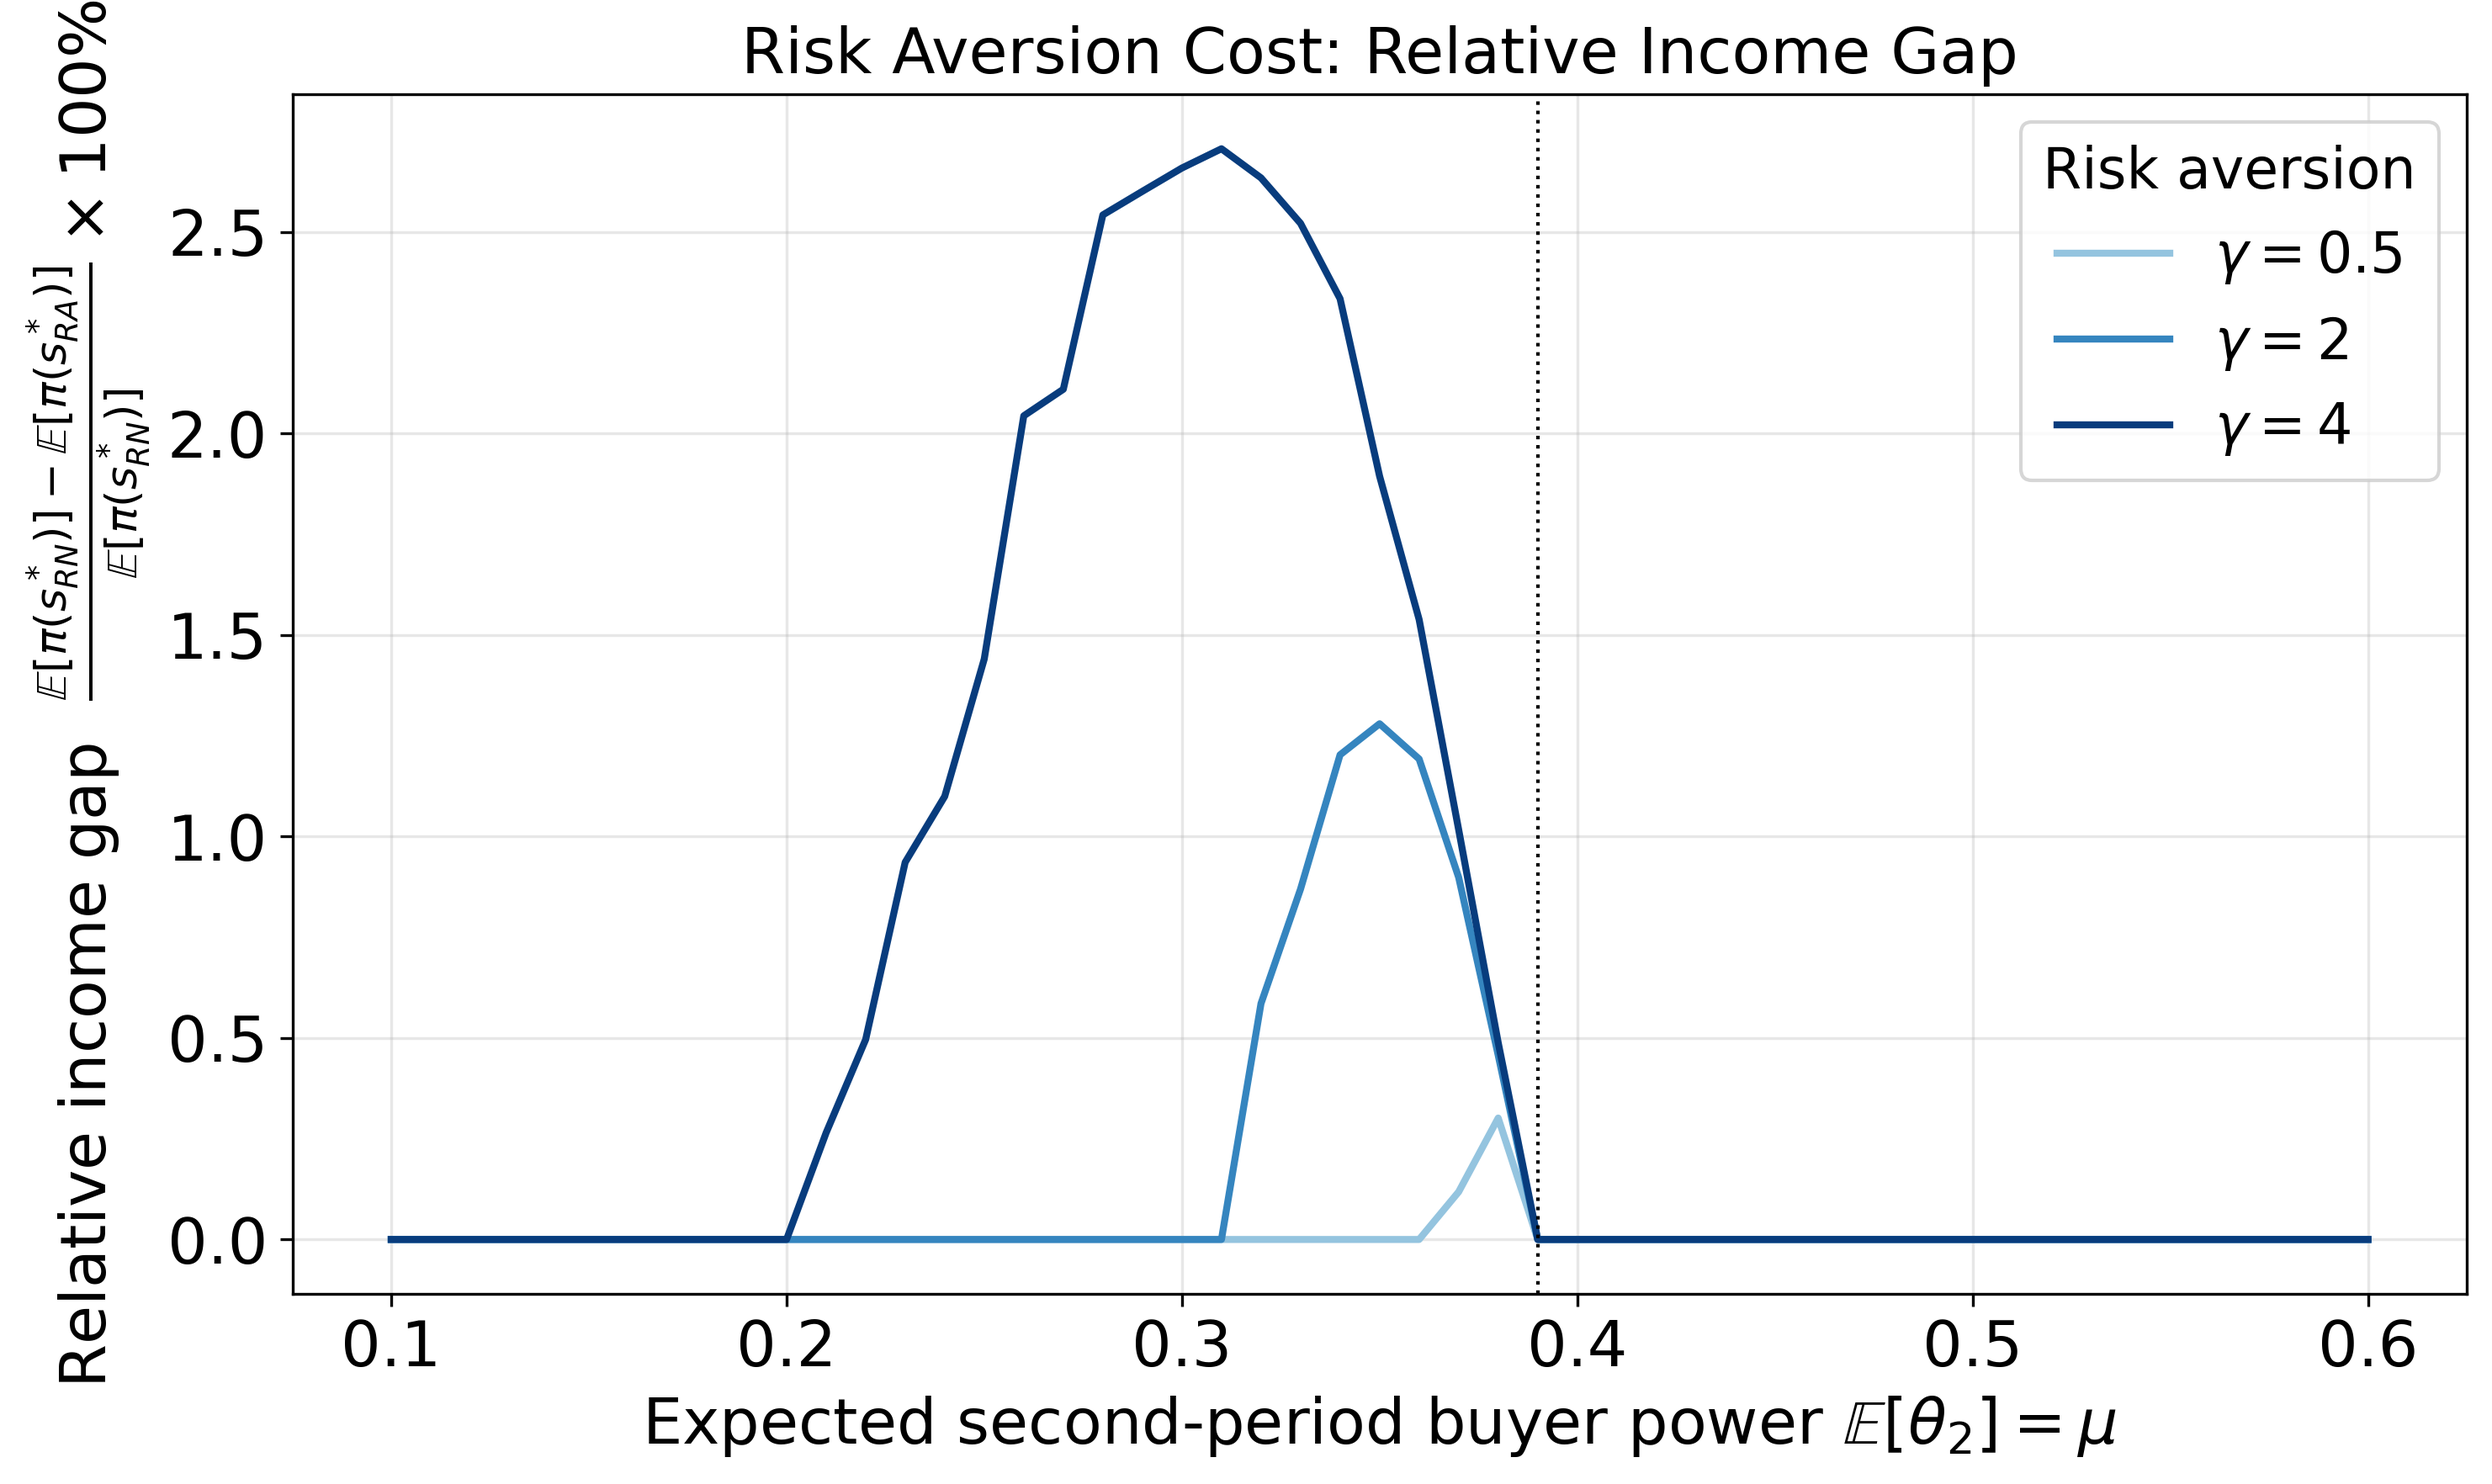
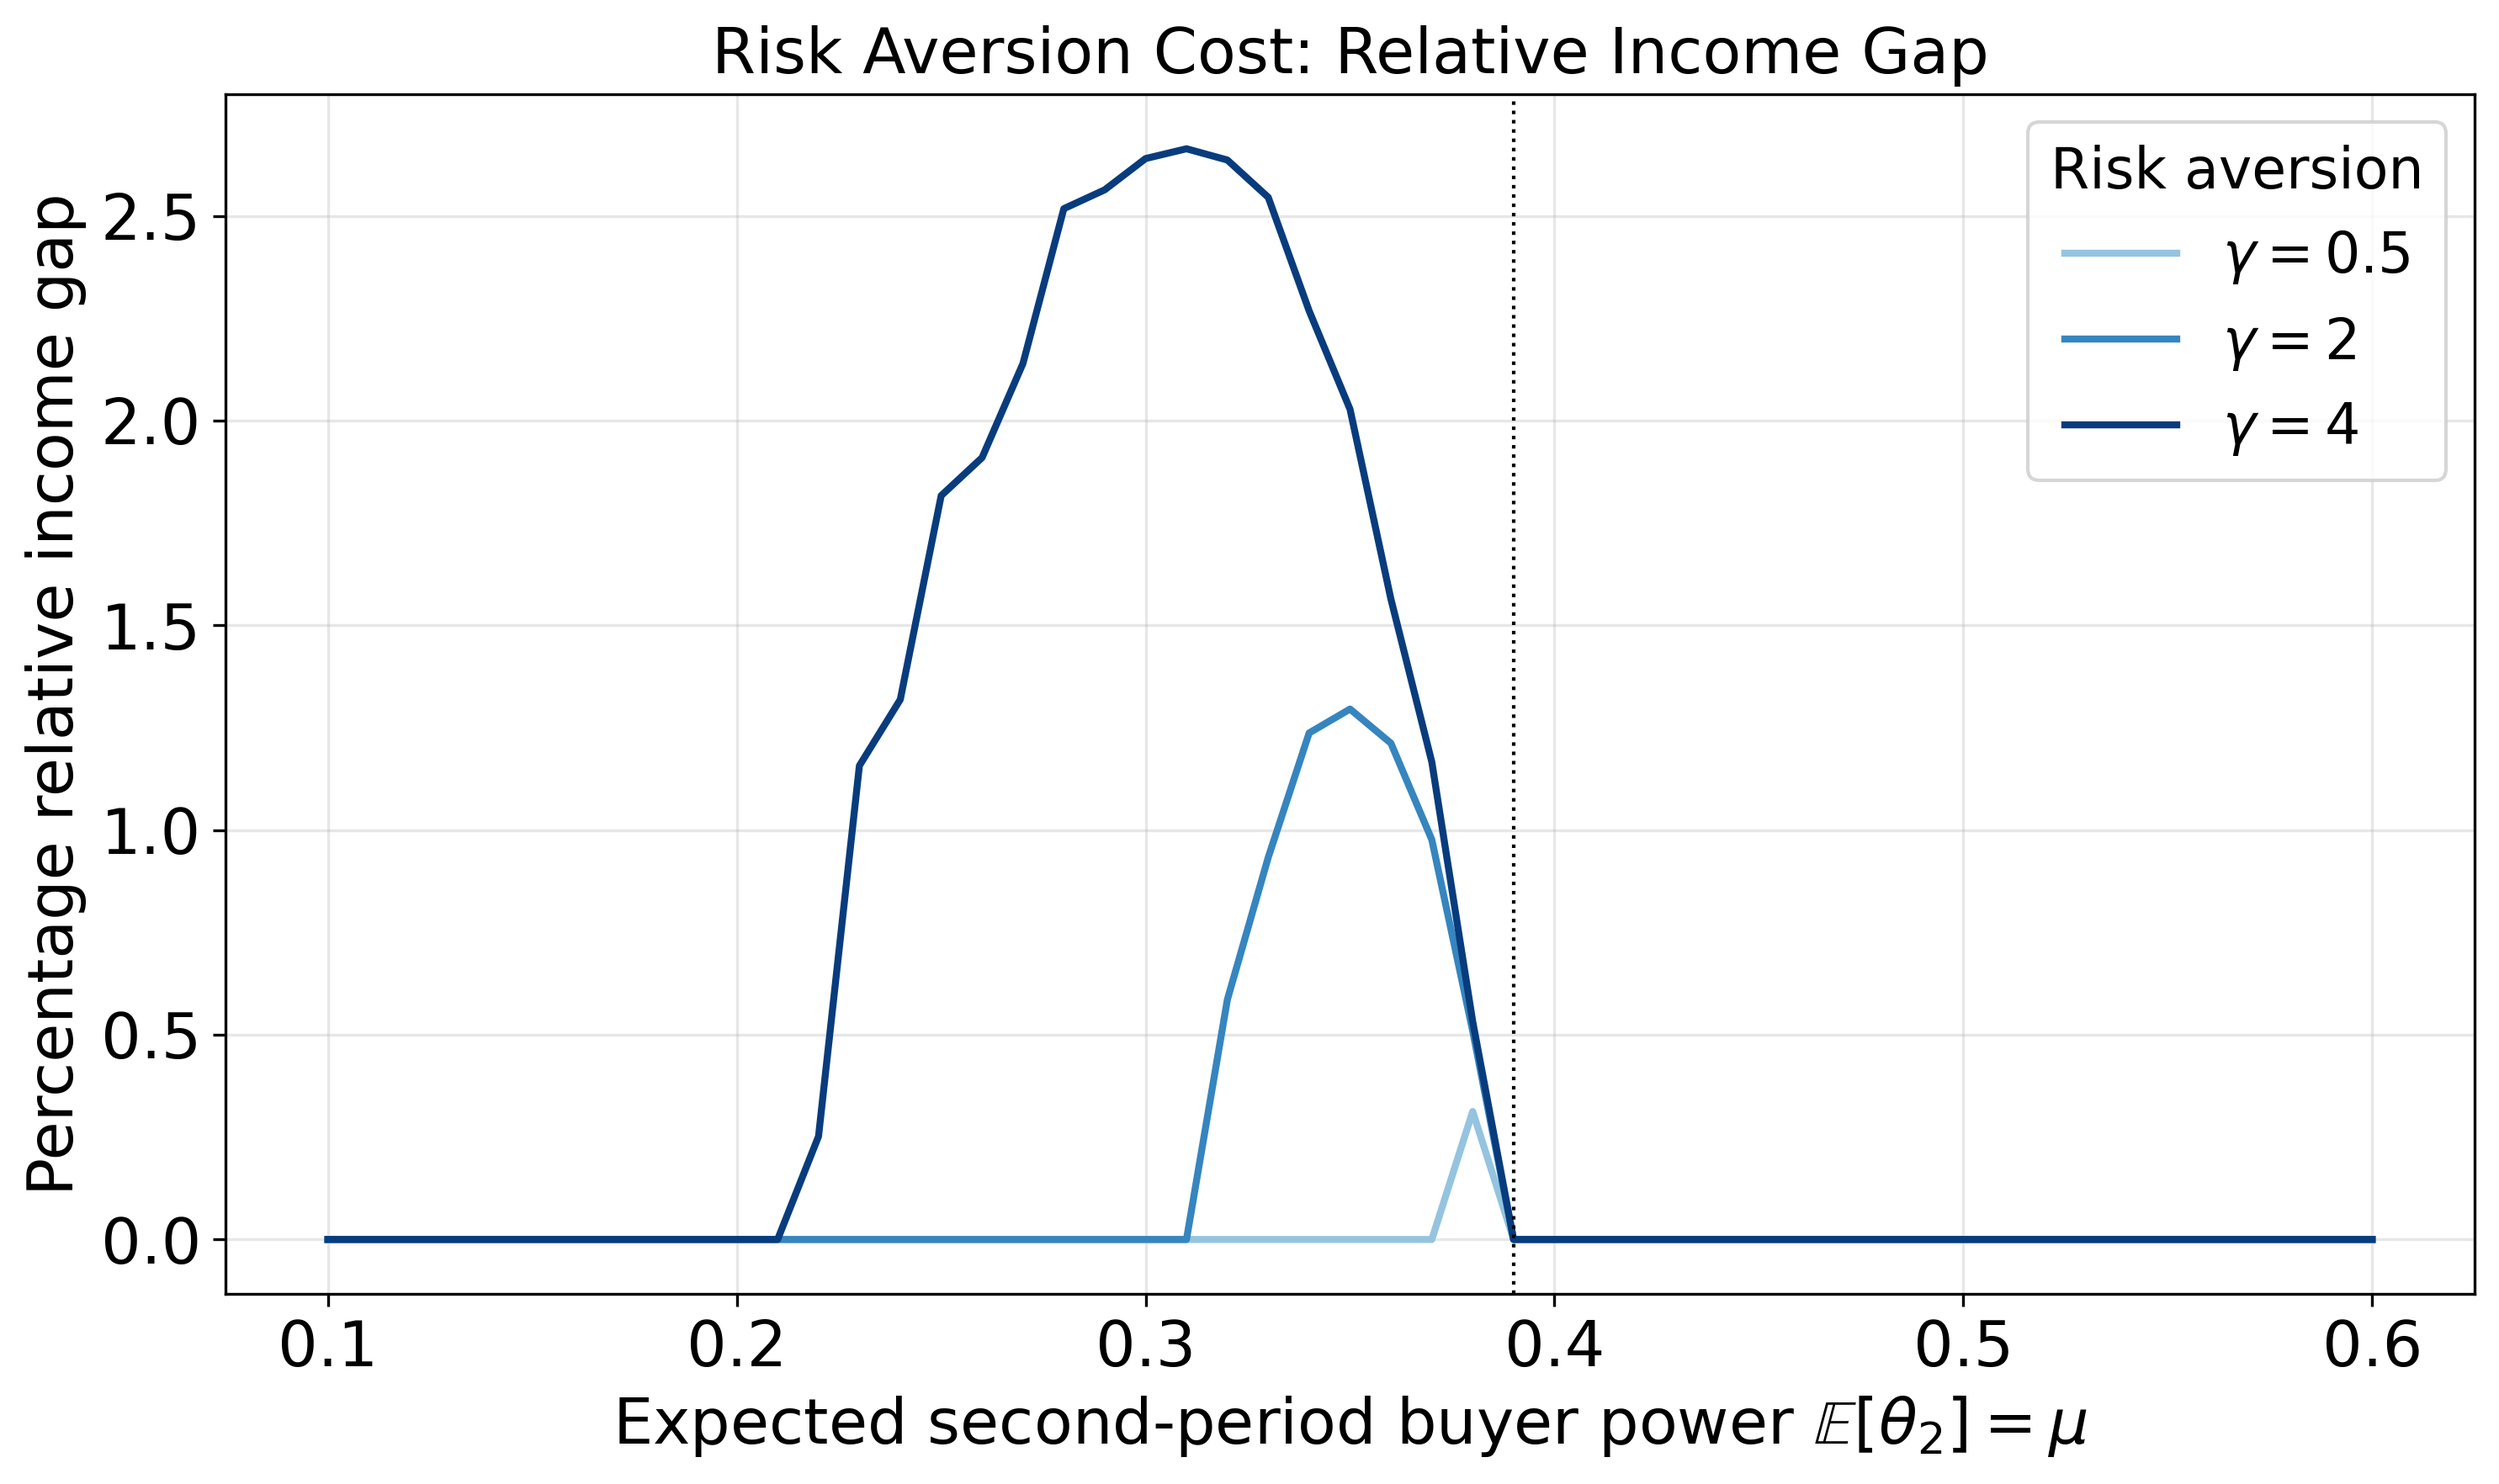
update

diff --git a/code/python_theoritical_model/village_4profile_RISK_AVERSION_income_gain.py b/code/python_theoritical_model/village_4profile_RISK_AVERSION_income_gain.py
@@ -63,7 +63,7 @@ target_dir      = os.path.join(grandparent_dir, "model_figures")
 os.makedirs(target_dir, exist_ok=True)
 
 DPI      = 300
-FIG_PATH = os.path.join(target_dir, "village_4profile_income_gain.png")
+FIG_PATH = os.path.join(target_dir, "village_4profile_income.png")
 
 # ----------------------------- Quadrature (shared across all integrals)
 nodes, weights = leggauss(20)
@@ -287,7 +287,7 @@ for v_idx, (title, color, pdf_fn, mean_v) in enumerate(dist_info):
         if v_idx == 1:   # Uniform: flat PDF, move label lower
             lbl_x, lbl_y = mean_v + 0.13, y.max() * 0.45
         elif v_idx == 3: # Left-skewed Beta: peak is on right, place label to the left
-            lbl_x, lbl_y = mean_v - 1.10, y.max() * 0.88
+            lbl_x, lbl_y = mean_v - 2.00, y.max() * 0.88
         else:            # Right-skewed Beta: default right placement
             lbl_x, lbl_y = mean_v + 0.13, y.max() * 0.88
         ax.text(lbl_x, lbl_y, f"$\\bar{{\\gamma}}={mean_v}$",
@@ -350,9 +350,7 @@ for r_idx, kappa in enumerate(kappa_rows):
 fig.suptitle(
     "Village-Average Income Gain from Optimal Storage"
     r"  ($\mu_{\theta_1} = \mu_{\theta_2}$)" + "\n"
-    r"Four village risk-aversion profiles  $|$  "
-    r"Rows: storage efficiency $\kappa$  $|$  "
-    r"Cols: buyer-power variance $\sigma^2_\theta$",
+    r"Four village risk-aversion profiles",
     fontsize=FS_SUPTITLE,
     y=1.01
 )

diff --git a/code/python_theoritical_model/village_4profile_RISK_AVERSION_GE_gain.py b/code/python_theoritical_model/village_4profile_RISK_AVERSION_GE_gain.py
@@ -63,7 +63,7 @@ target_dir      = os.path.join(grandparent_dir, "model_figures")
 os.makedirs(target_dir, exist_ok=True)
 
 DPI      = 300
-FIG_PATH = os.path.join(target_dir, "village_4profile_individual.png")
+FIG_PATH = os.path.join(target_dir, "village_4profile_CE.png")
 
 # ----------------------------- Quadrature (shared across all integrals)
 nodes, weights = leggauss(20)
@@ -349,9 +349,7 @@ for r_idx, kappa in enumerate(kappa_rows):
 fig.suptitle(
     "Village-Average Certainty-Equivalent Gain from Optimal Storage"
     r"  ($\mu_{\theta_1} = \mu_{\theta_2}$)" + "\n"
-    r"Four village risk-aversion profiles  $|$  "
-    r"Rows: storage efficiency $\kappa$  $|$  "
-    r"Cols: buyer-power variance $\sigma^2_\theta$",
+    r"Four village risk-aversion profiles",
     fontsize=FS_SUPTITLE,
     y=1.01
 )

diff --git a/code/python_theoritical_model/cost_of_risk_aversion.py b/code/python_theoritical_model/cost_of_risk_aversion.py
@@ -111,8 +111,7 @@ if mu_star is not None:
 
 ax.set_xlabel(r"Expected second-period buyer power $\mathbb{E}[\theta_2]=\mu$")
 ax.set_ylabel(
-    r"Relative income gap  "
-    r"$\frac{\mathbb{E}[\pi(s^*_{RN})]-\mathbb{E}[\pi(s^*_{RA})]}{\mathbb{E}[\pi(s^*_{RN})]}\times100\%$"
+    r"Percentage relative income gap"
 )
 ax.set_title("Risk Aversion Cost: Relative Income Gap")
 ax.grid(True, alpha=0.3)
